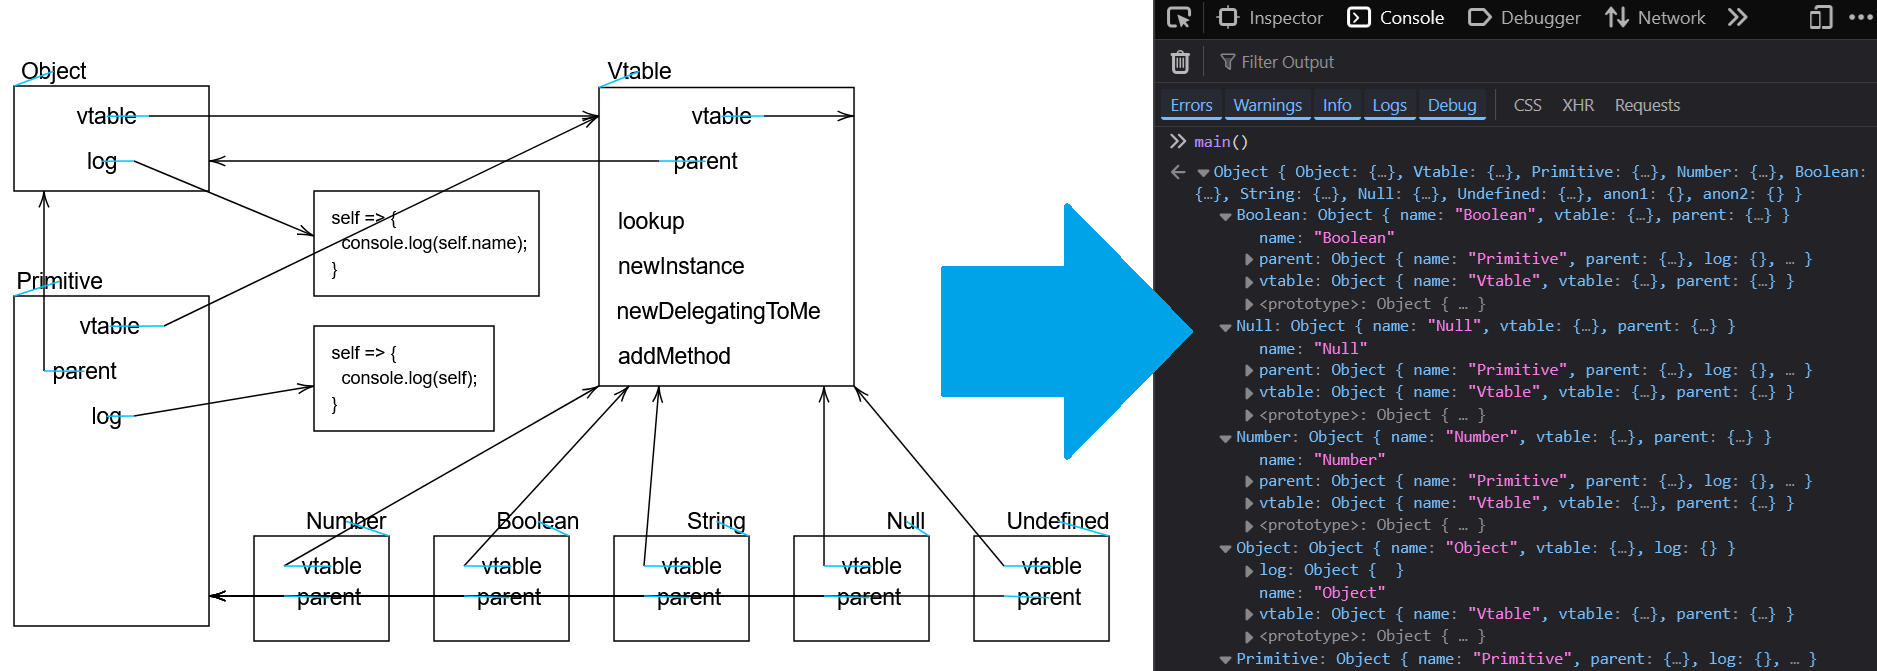
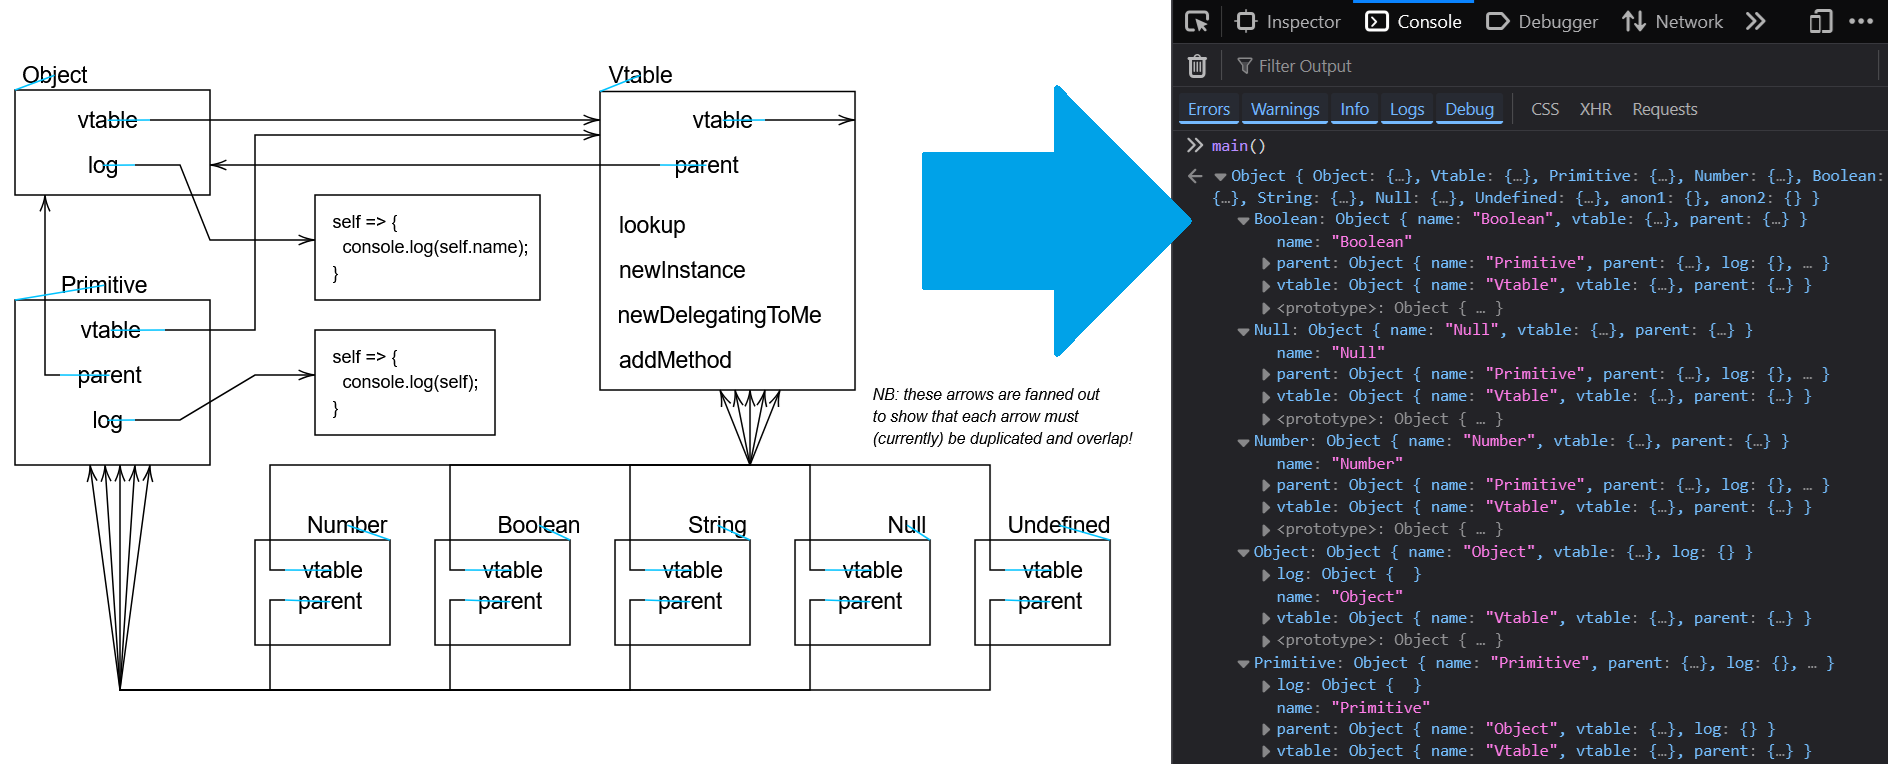
Polyarrows surprisingly easy to support

diff --git a/misc.js b/misc.js
@@ -102,6 +102,8 @@ extractRect = function(rectPathElt) {
 <g class="arrow-line">
   <path class="real" d=" Mxo,yo Lxt,yt" />
 </g>
+or
+d=" Mxo,yo L_,_ L_,_ L_,_ L_,_ (...) Lxt,yt"
 ---
 arrow's origin is [xo,yo]
 arrow's target is [xt,yt]
@@ -109,8 +111,9 @@ arrow's target is [xt,yt]
 extractArrow = function(arrowGroupElt) {
   const shaftPathElt = arrowGroupElt.querySelector('path.real');
   const [opcodes,xs,ys] = extractPathCmds(shaftPathElt);
-  if (opcodes !== 'ML') return;
-  const [xo,yo,xt,yt] = [xs[0],ys[0],xs[1],ys[1]];
+  if (opcodes[0] !== 'M') return;
+  for (let i=1; i<opcodes.length; i++) if (opcodes[i] !== 'L') return;
+  const [xo,yo,xt,yt] = [xs[0],ys[0],last(xs),last(ys)];
   return {origin: [xo,yo], target: [xt,yt]};
 }
 
